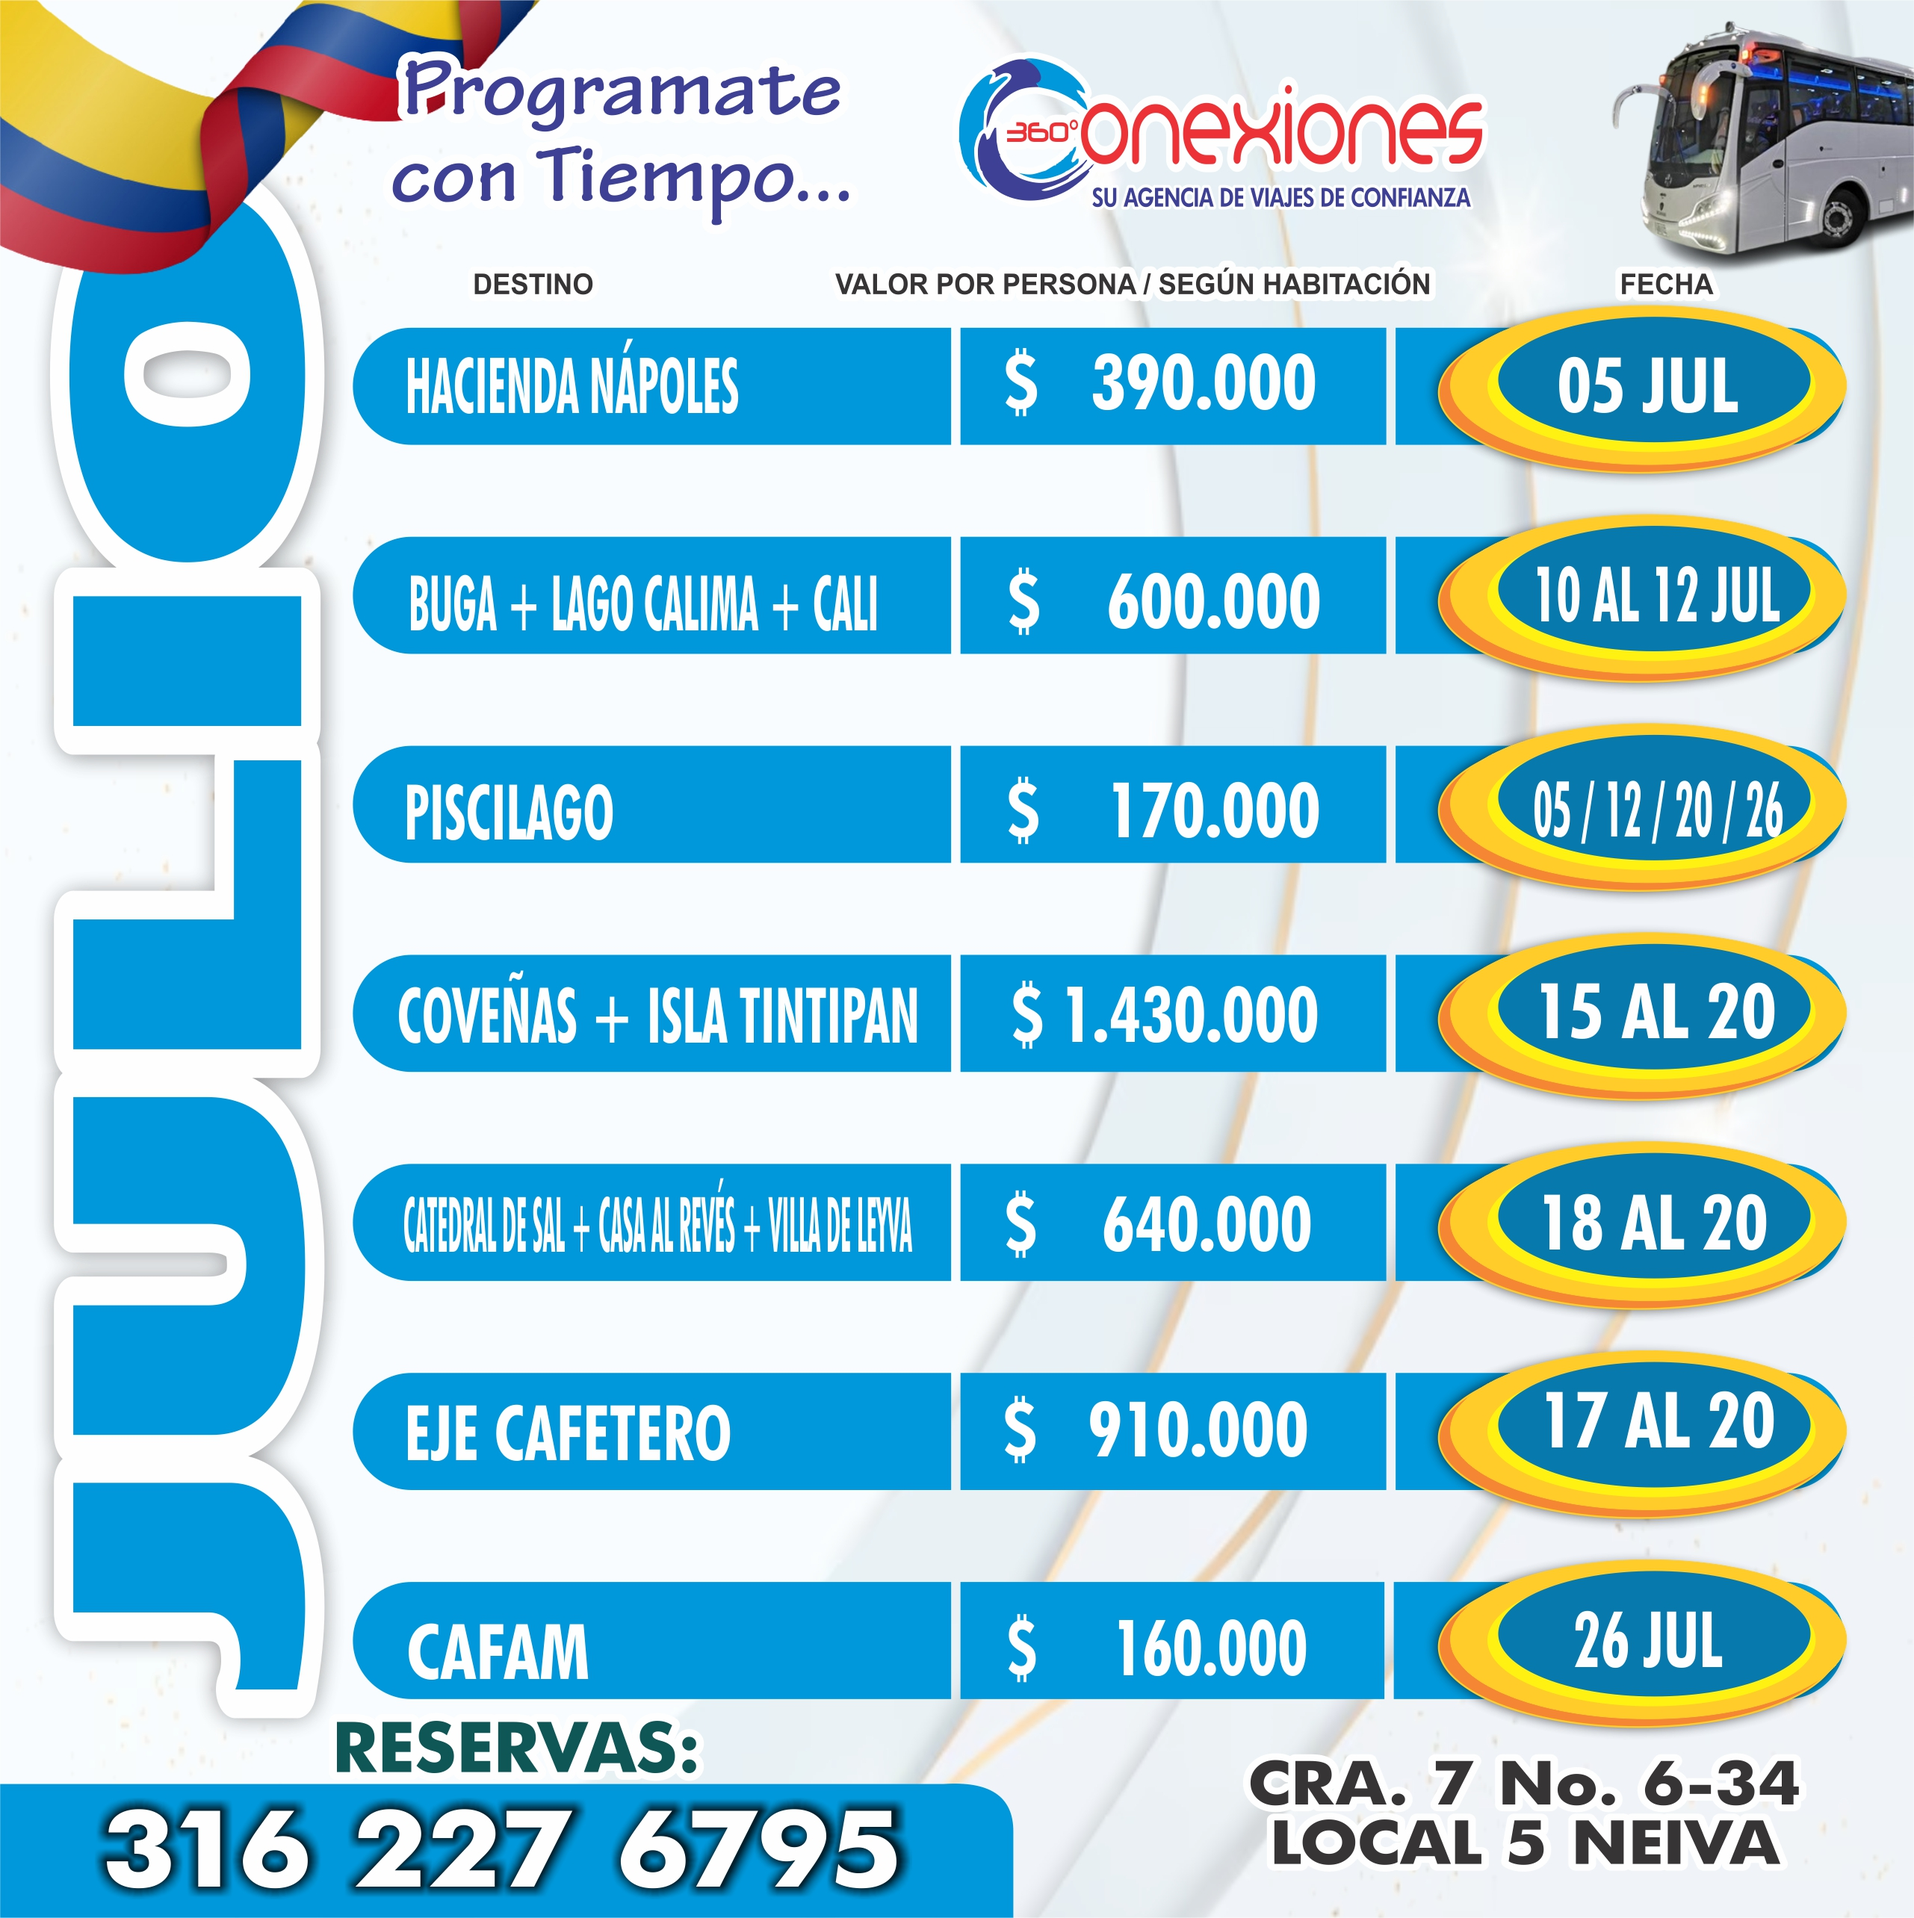
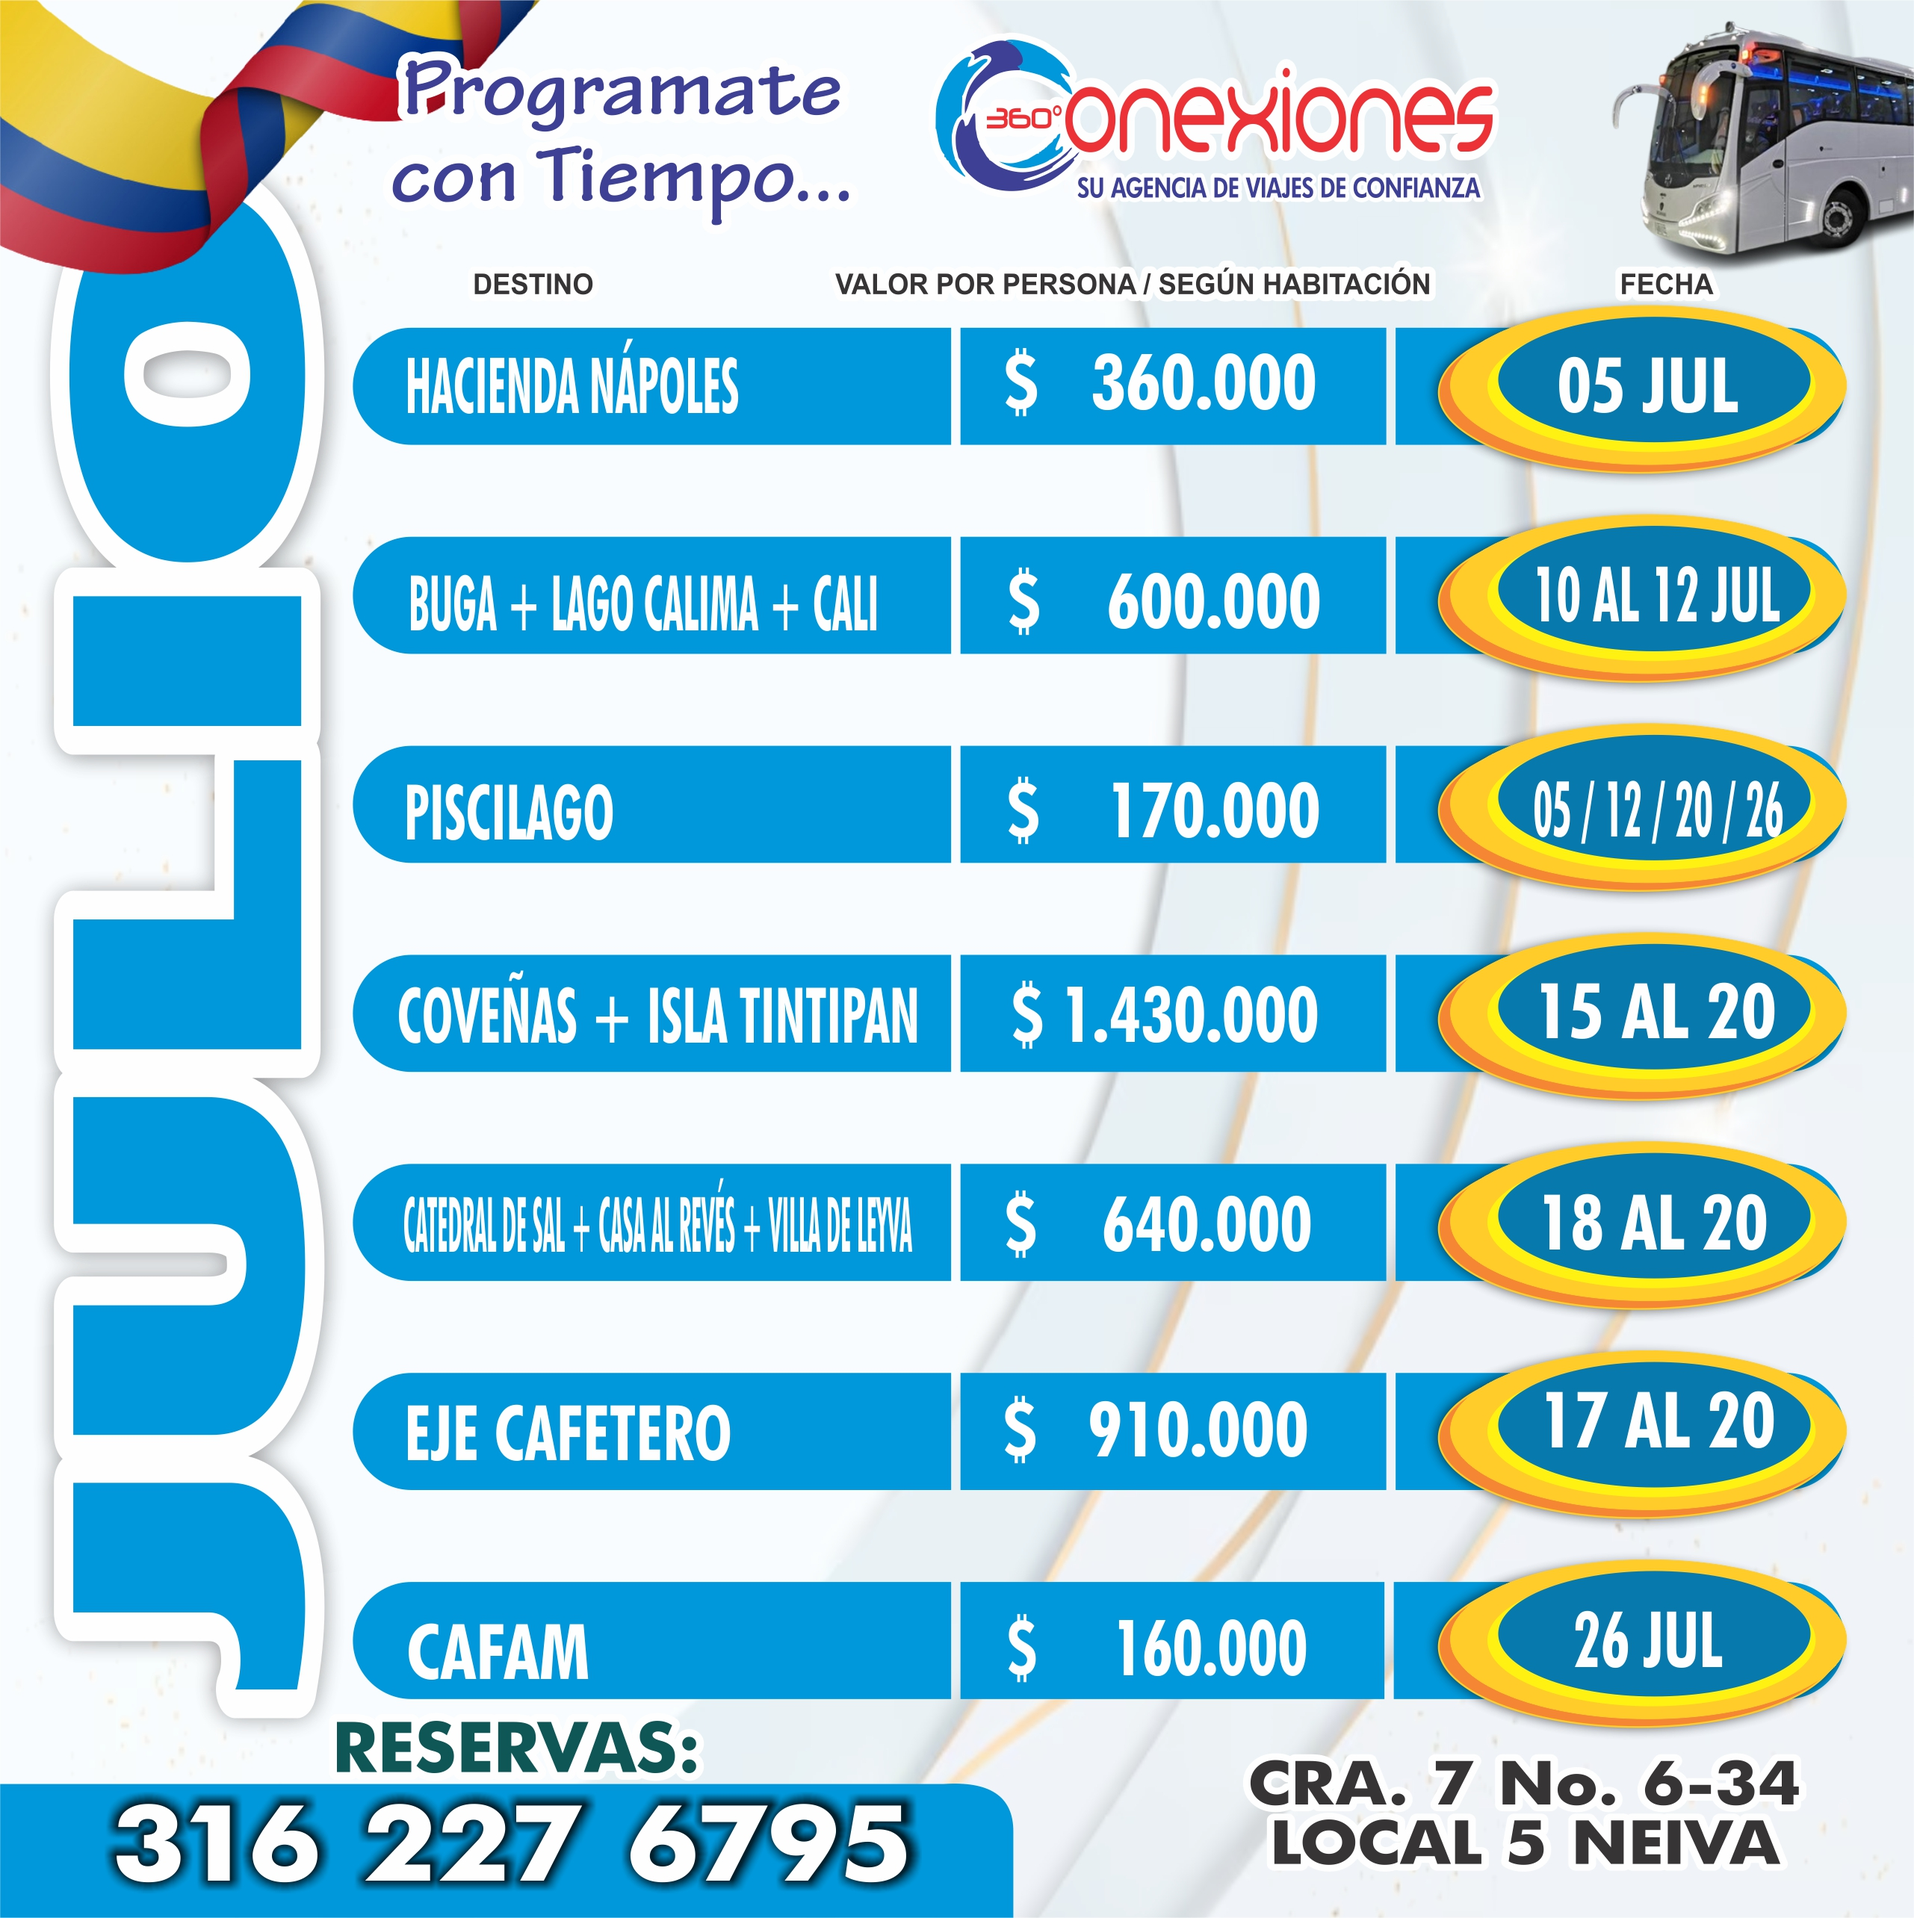
correciones julio

Changed region(s): [[0.4684, 0.0, 0.7806, 0.1246], [0.0312, 0.9346, 0.4996, 0.9969], [0.5933, 0.1869, 0.6245, 0.2181]]

diff --git a/src/data/flyers/flyers.ts b/src/data/flyers/flyers.ts
@@ -39,7 +39,7 @@ export const flyers: FlyerPlan[] = [
     id: "mexiconaereo",
     mes: "julio",// mes no relevante para aereo
     tipo: "aereo",
-    titulo: "Mexico",
+    titulo: "México",
     fechas: ["Salidas temporadas bajas o a tu elección"],
     precio: 3800000,
     imagen: "/Aereos/mexico.jpg",
@@ -627,7 +627,7 @@ export const flyers: FlyerPlan[] = [
     tipo: "terrestre",
     titulo: "Hacienda Nápoles",
     fechas: ["Julio 5"],
-    precio: 390000,
+    precio: 360000,
     imagen: "/Julio2026/napoles.jpg",
     whatsappBase:
       "Hola Conexiones360, quiero información del plan Hacienda Nápoles",
@@ -676,7 +676,7 @@ export const flyers: FlyerPlan[] = [
     tipo: "terrestre",
     titulo: "Villa de Leyva",
     fechas: ["Julio 18 al 20"],
-    precio: 640000,
+    precio: 630000,
     imagen: "/Julio2026/boyaca.jpg",
     whatsappBase:
       "Hola Conexiones360, quiero información del plan Villa de Leyva",
@@ -698,7 +698,7 @@ export const flyers: FlyerPlan[] = [
     tipo: "terrestre",
     titulo: "Cafam Melgar",
     fechas: ["Julio 18 al 20"],
-    precio: 160000,
+    precio: 170000,
     imagen: "/Julio2026/cafam.jpg",
     whatsappBase:
       "Hola Conexiones360, quiero información del plan Cafam Melgar",
